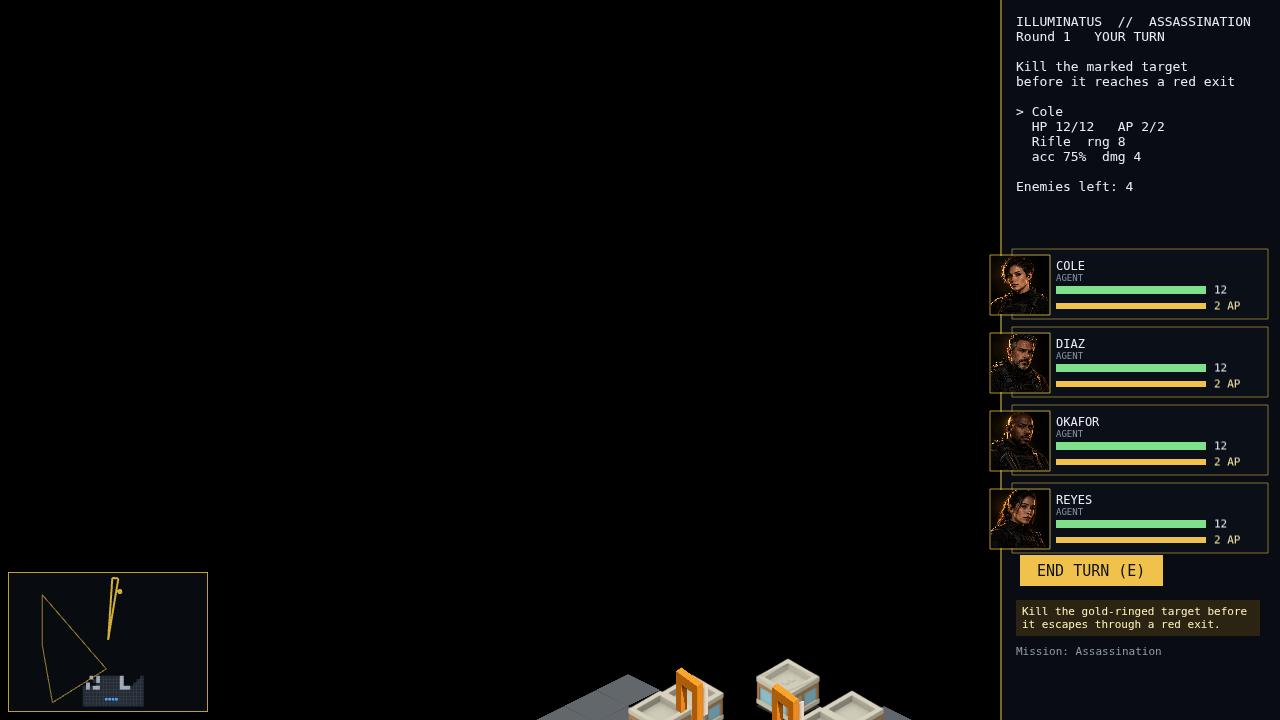
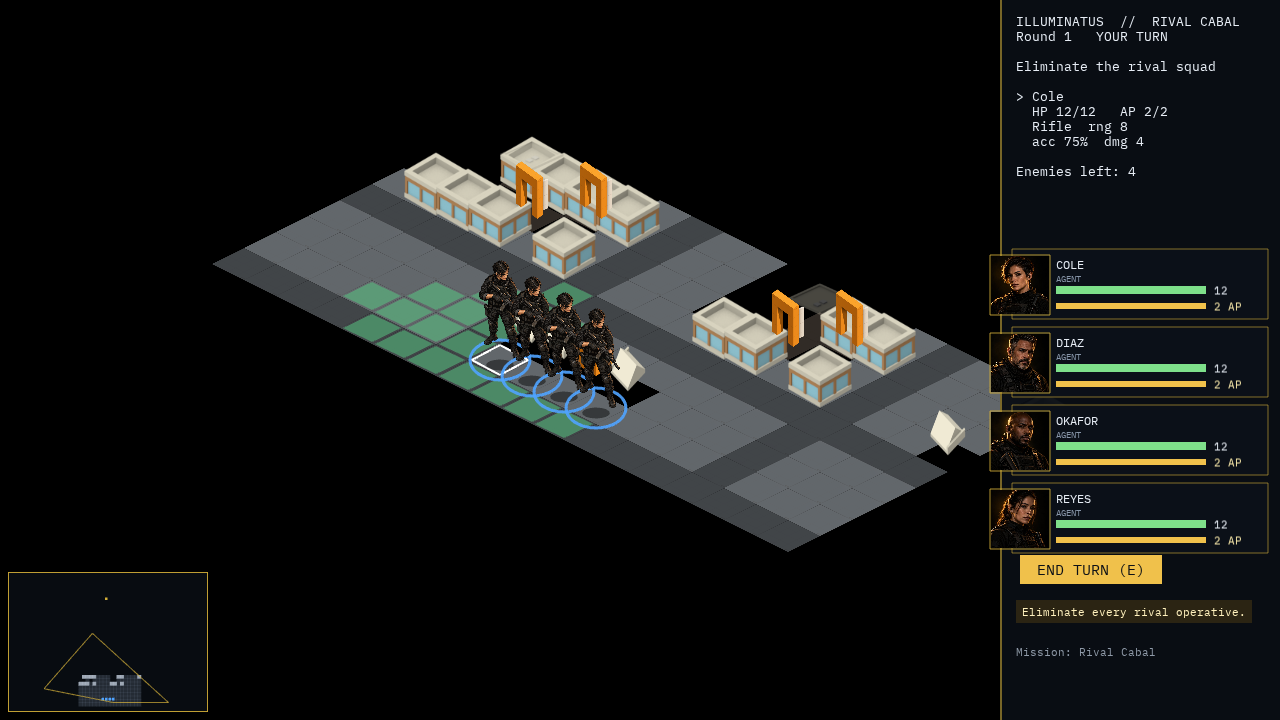
docs: 7e-render merged, real-flow start screenshot

diff --git a/docs/STATUS.md b/docs/STATUS.md
@@ -15,7 +15,7 @@ Last updated: 26 Sep 2026, night. Three days left. Deadline: 30 Sep 2026.
 | 7a-campaign | Missions offered per region on the world map, rewards, the UI for all three types | merged; PLAY THIS |
 | 7b | Persistent squad: HP and kills carry over, promotion at 5 kills, deaths cost 40 to replace | merged |
 | 7a-spawn | Missions spawn from your actions, one or two open at a time, sidebar tabs, map clear | merged; PLAY THIS |
-| 7e | Your 26 Sep note: real levels, big district maps with buildings, fog of war, radar with target bearing, scrolling camera | rules merged; renderer reviewed 26 Sep late: camera, fog, radar, city tiles and portrait cards all work in real play. Sent back once for one blocker (the four soldiers spawned scattered along the whole start edge, median 22 tiles apart, so one was off-screen) plus fresh screenshots. Merges when that lands |
+| 7e | Your 26 Sep note: real levels, big district maps with buildings, fog of war, radar with target bearing, scrolling camera | **merged 26 Sep late; PLAY THIS.** Generated missions are now real levels: district maps with buildings, fog of war, radar bottom-left, scrolling camera (drag, edge, WASD). Sent back once because the squad spawned scattered along the start edge; fixed |
 | 7d | Polish, Loom, Skool post | last |
 | 6c-ship | Mobile sizing, Loom, Skool post | last |
 

diff --git a/DESIGN.md b/DESIGN.md
@@ -180,5 +180,5 @@ grey, no bare rectangles, nothing important under 11px, every screen readable at
 | 7b | Persistent squad, roster, promotions, replacements | worker → critic | merged 23 Sep |
 | 7a-spawn | Missions spawn from actions, max two open, expiry, panel moved into the HUD | worker → critic | merged 26 Sep |
 | 7e-rules | Fog of war, enemy memory, radar data, district generator, fog-aware squad AI (opt-in until the renderer lands) | worker → critic | merged 26 Sep |
-| 7e-render | Camera, fog rendering, radar panel, city tileset, campaign activation | critic → worker | sent back 26 Sep: cluster squad spawns (mapgen), retake screenshots |
+| 7e-render | Camera, fog rendering, radar panel, city tileset, campaign activation | merged 26 Sep | one send-back: squad spawns clustered; 00-start-fog.png retaken by the critic through the real flow, the other 7e shots were hook-driven and belong to the 7d retake list |
 | 7d | Polish, Loom, Skool post | conductor | last |
